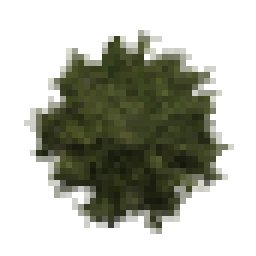
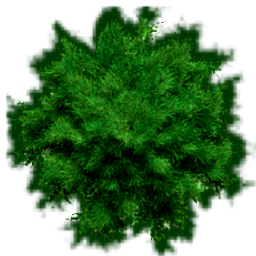
Zachary Chandler added bushes to front end

diff --git a/src/main/webapp/js/utility/Materials.js b/src/main/webapp/js/utility/Materials.js
@@ -11,3 +11,4 @@ addMaterial("stone");
 addMaterial("water");
 addMaterial("missing_texture");
 addMaterial("human");
+addMaterial("bush");

diff --git a/src/main/java/org/ex/yggdrasil/model/entities/Entity.java b/src/main/java/org/ex/yggdrasil/model/entities/Entity.java
@@ -6,6 +6,7 @@ import java.util.Objects;
 import org.ex.yggdrasil.model.Identifiable;
 import org.ex.yggdrasil.model.updates.UpdateProcessor;
 import org.ex.yggdrasil.model.world.chunks.Chunk;
+import org.ex.yggdrasil.model.world.chunks.Direction3D;
 
 /**
  * An entity that exists in the world... Has a position, chunk location, etc...
@@ -21,21 +22,25 @@ public abstract class Entity extends Identifiable implements Serializable {
 	private Chunk chunk;
 	private int x, y;
 	private EntityMaterial material;
+	private Direction3D facing;
 	
 	public Entity(Chunk c) {
-		this(null, c, EntityMaterial.MISSING_TEXTURE);
+		this(null, c, EntityMaterial.MISSING_TEXTURE, 0, 0);
 	}
 
-	public Entity(Chunk c, EntityMaterial material) {
-		this(null, c, material);
+	public Entity(Chunk c, EntityMaterial material, int x, int y) {
+		this(null, c, material, x, y);
 	}
 	
-	public Entity(Long id, Chunk c, EntityMaterial material) {
+	public Entity(Long id, Chunk c, EntityMaterial material, int x, int y) {
 		super(id);
 		Objects.requireNonNull(c);
 		this.position = new EntityPosition();
 		this.chunk = c;
 		this.material = material;
+		this.x = x;
+		this.y = y;
+		this.facing = Direction3D.N;
 	}
 
 	public EntityMaterial getMaterial() {
@@ -120,4 +125,15 @@ public abstract class Entity extends Identifiable implements Serializable {
 	}
 	
 	public abstract String[] getActions(); 
+
+
+	public Direction3D getFacing() {
+		return facing;
+	}
+
+	public void setFacing(Direction3D facing) {
+		Objects.requireNonNull(facing);
+		this.facing = facing;
+		UpdateProcessor.update(this);
+	}
 }

diff --git a/src/main/java/org/ex/yggdrasil/model/world/generation/RandomResourceDistributionWorldGenerator.java b/src/main/java/org/ex/yggdrasil/model/world/generation/RandomResourceDistributionWorldGenerator.java
@@ -1,0 +1,47 @@
+package org.ex.yggdrasil.model.world.generation;
+
+import java.util.Random;
+
+import org.ex.yggdrasil.model.entities.Entity;
+import org.ex.yggdrasil.model.entities.resources.ResourceNode;
+import org.ex.yggdrasil.model.entities.resources.ResourceNodeType;
+import org.ex.yggdrasil.model.world.chunks.Biome;
+import org.ex.yggdrasil.model.world.chunks.Chunk;
+import org.ex.yggdrasil.model.world.chunks.Direction3D;
+
+public class RandomResourceDistributionWorldGenerator extends SingleBiomeWorldGenerator {
+
+	private static final Random R = new Random();
+	
+	private ResourceNodeType resourceType;
+	private float density;
+
+	public RandomResourceDistributionWorldGenerator(Biome b, ResourceNodeType type) {
+		super(b);
+		this.resourceType = type;
+		this.density = (float) (1.0/16.0);
+	}
+
+	@Override
+	public void populate(Chunk c) {
+		
+		int tiles = c.getXSize() * c.getYSize();
+		int toPlace = (int) (density * tiles);
+		
+		int sizeX = c.getXSize();
+		int sizeY = c.getYSize();
+		
+		Direction3D[] directions = Direction3D.values(); 
+		
+		for (int i = 0; i < toPlace; i++) {
+			int x = Math.min((int) (R.nextFloat() * sizeX), sizeX - 1);
+			int y = Math.min((int) (R.nextFloat() * sizeY), sizeY - 1);
+			
+			if (!c.isWall(x, y) && x != 0 && y != 0) {
+				Entity e = c.add(new ResourceNode(this.resourceType, c, x, y));
+				e.setFacing(directions[R.nextInt(directions.length)]);
+				c.setWall(true, x, y);
+			}
+		}
+	}
+}

diff --git a/src/main/java/org/ex/yggdrasil/server/serialization/Serializer.java b/src/main/java/org/ex/yggdrasil/server/serialization/Serializer.java
@@ -3,6 +3,7 @@ package org.ex.yggdrasil.server.serialization;
 import org.ex.yggdrasil.model.Material;
 import org.ex.yggdrasil.model.entities.Entity;
 import org.ex.yggdrasil.model.entities.players.Player;
+import org.ex.yggdrasil.model.entities.resources.ResourceNode;
 import org.ex.yggdrasil.model.updates.BiomeUpdate;
 import org.ex.yggdrasil.model.updates.NetworkUpdate;
 import org.ex.yggdrasil.model.world.chunks.Chunk;
@@ -13,6 +14,7 @@ import org.ex.yggdrasil.server.serialization.adapters.ChunkTypeAdapter;
 import org.ex.yggdrasil.server.serialization.adapters.ContinuousEventTypeAdapter;
 import org.ex.yggdrasil.server.serialization.adapters.Coordinate3DTypeAdapter;
 import org.ex.yggdrasil.server.serialization.adapters.EntityPositionTypeAdapter;
+import org.ex.yggdrasil.server.serialization.adapters.EntityTypeAdapter;
 import org.ex.yggdrasil.server.serialization.adapters.MaterialTypeAdapter;
 import org.ex.yggdrasil.server.serialization.adapters.NetworkUpdateTypeAdapter;
 import org.ex.yggdrasil.server.serialization.adapters.PlayerTypeAdapter;
@@ -32,6 +34,7 @@ public class Serializer {
 			.registerTypeAdapter(Chunk.class, new ChunkTypeAdapter())
 			.registerTypeAdapter(Material.class, new MaterialTypeAdapter())
 			.registerTypeAdapter(BiomeUpdate.class, new BiomeUpdateTypeAdapter())
+			.registerTypeAdapter(ResourceNode.class, new EntityTypeAdapter())
 			.create();
 	
 	public static String prepare(NetworkUpdate n) {

diff --git a/src/main/java/org/ex/yggdrasil/model/entities/players/Player.java b/src/main/java/org/ex/yggdrasil/model/entities/players/Player.java
@@ -11,7 +11,6 @@ import org.ex.yggdrasil.model.updates.NetworkUpdate;
 import org.ex.yggdrasil.model.updates.UpdateProcessor;
 import org.ex.yggdrasil.model.world.World;
 import org.ex.yggdrasil.model.world.chunks.Chunk;
-import org.ex.yggdrasil.model.world.chunks.Direction3D;
 import org.ex.yggdrasil.model.world.time.ContinuousEvent;
 import org.slf4j.Logger;
 import org.slf4j.LoggerFactory;
@@ -28,7 +27,6 @@ public class Player extends Entity implements Serializable {
 	public final String userName;
 	private long experience;
 	transient boolean loggedIn;
-	private Direction3D facing;
 	private transient ContinuousEvent action;
 
 	public final Queue<String> messages;
@@ -45,7 +43,6 @@ public class Player extends Entity implements Serializable {
 		
 		this.userName = userName;
 		this.updates = new NetworkUpdate();
-		this.facing = Direction3D.N;
 		specialization = new ClassLevels();
 		experience = 0;
 		action = null;
@@ -127,16 +124,6 @@ public class Player extends Entity implements Serializable {
 
 	public ContinuousEvent getAction() {
 		return this.action;
-	}
-
-	public Direction3D getFacing() {
-		return facing;
-	}
-
-	public void setFacing(Direction3D facing) {
-		Objects.requireNonNull(facing);
-		this.facing = facing;
-		UpdateProcessor.update(this);
 	}
 	
 	@Override

diff --git a/src/main/java/org/ex/yggdrasil/model/entities/resources/ResourceNodeType.java b/src/main/java/org/ex/yggdrasil/model/entities/resources/ResourceNodeType.java
@@ -5,13 +5,14 @@ import org.ex.yggdrasil.model.entities.items.Item;
 
 public enum ResourceNodeType {
 
-	BUSH(Item.STICK, EntityMaterial.BUSH, EntityMaterial.BUSH, 15000, 15000);
+	BUSH(Item.STICK, EntityMaterial.BUSH, EntityMaterial.BUSH, 15000, 15000, new String[0]);
 	
 	public final EntityMaterial activeMaterial;
 	public final EntityMaterial depletedMaterial;
 	public final Item item;
 	public final int respawn_time;
 	public final int respawn_variance;
+	public final String[] actions;
 
 	/**
 	 * Defines a resource node type.
@@ -21,12 +22,13 @@ public enum ResourceNodeType {
 	 * @param respawn_time the minimum time it takes for this resource type to re-spawn
 	 * @param respawn_variance the uniform distribution spread for re-spawn times of this node
 	 */
-	ResourceNodeType(Item item, EntityMaterial active, EntityMaterial depleted, int respawn_time, int respawn_variance) {
+	ResourceNodeType(Item item, EntityMaterial active, EntityMaterial depleted, int respawn_time, int respawn_variance, String[] actions) {
 		this.item = item;
 		this.activeMaterial = active;
 		this.depletedMaterial = depleted;
 		this.respawn_time = respawn_time;
 		this.respawn_variance = respawn_variance;
+		this.actions = actions;
 	}
 	
 }

diff --git a/src/main/java/org/ex/yggdrasil/model/entities/resources/ResourceNode.java b/src/main/java/org/ex/yggdrasil/model/entities/resources/ResourceNode.java
@@ -9,7 +9,7 @@ import org.ex.yggdrasil.model.updates.UpdateProcessor;
 import org.ex.yggdrasil.model.world.World;
 import org.ex.yggdrasil.model.world.chunks.Chunk;
 
-public abstract class ResourceNode extends Entity {
+public class ResourceNode extends Entity {
 
 	private static final Random R = new Random();
 
@@ -18,11 +18,10 @@ public abstract class ResourceNode extends Entity {
 	private final Runnable reset;
 	private boolean depleted;
 
-	public ResourceNode(Chunk c, ResourceNodeType type) {
-		super(c);
-		this.setMaterial(type.activeMaterial);
-		this.depleted = false;
+	public ResourceNode(ResourceNodeType type, Chunk c, int x, int y) {
+		super(c, type.activeMaterial, x, y);
 		this.type = type;
+		this.depleted = false;
 		this.reset = new Reset();
 	}
 
@@ -63,5 +62,10 @@ public abstract class ResourceNode extends Entity {
 			ResourceNode.this.setMaterial(ResourceNode.this.type.activeMaterial);
 			UpdateProcessor.update(ResourceNode.this);
 		}
+	}
+
+	@Override
+	public String[] getActions() {
+		return this.type.actions;
 	}
 }

diff --git a/src/main/java/org/ex/yggdrasil/server/Server.java b/src/main/java/org/ex/yggdrasil/server/Server.java
@@ -2,10 +2,11 @@ package org.ex.yggdrasil.server;
 
 import java.io.FileNotFoundException;
 
+import org.ex.yggdrasil.model.entities.resources.ResourceNodeType;
 import org.ex.yggdrasil.model.world.Persistence;
 import org.ex.yggdrasil.model.world.World;
 import org.ex.yggdrasil.model.world.chunks.Biome;
-import org.ex.yggdrasil.model.world.generation.SingleBiomeWorldGenerator;
+import org.ex.yggdrasil.model.world.generation.RandomResourceDistributionWorldGenerator;
 import org.ex.yggdrasil.parser.Commands;
 import org.slf4j.Logger;
 import org.slf4j.LoggerFactory;
@@ -24,7 +25,7 @@ public abstract class Server {
 		} catch (FileNotFoundException e) {
 			LOG.error("Failed to load world, could not read save file.");
 			LOG.info("Generating terrain");
-			new SingleBiomeWorldGenerator(Biome.GRASS).generate(World.get().getRoot());
+			new RandomResourceDistributionWorldGenerator(Biome.GRASS, ResourceNodeType.BUSH).generate(World.get().getRoot());
 		}
 		
 		loadCommands();

diff --git a/src/main/java/org/ex/yggdrasil/server/serialization/adapters/AbstractEntityTypeAdapter.java b/src/main/java/org/ex/yggdrasil/server/serialization/adapters/AbstractEntityTypeAdapter.java
@@ -10,12 +10,13 @@ import com.google.gson.JsonSerializationContext;
 
 public abstract class AbstractEntityTypeAdapter {
 
-	public JsonObject serialize(Entity src, Type typeOfSrc, JsonSerializationContext context) {
+	public JsonObject serializeEntity(Entity src, Type typeOfSrc, JsonSerializationContext context) {
 		JsonObject root = new JsonObject();
 
 		root.add("position", context.serialize(src.getPosition()));
 		root.add("id", new JsonPrimitive(src.getId()));
 		root.add("material", new JsonPrimitive(src.getMaterial().toString()));
+		root.add("facing", new JsonPrimitive(src.getFacing().name()));
 		
 		return root;
 	}

diff --git a/src/main/java/org/ex/yggdrasil/server/serialization/adapters/EntityTypeAdapter.java b/src/main/java/org/ex/yggdrasil/server/serialization/adapters/EntityTypeAdapter.java
@@ -1,0 +1,17 @@
+package org.ex.yggdrasil.server.serialization.adapters;
+
+import java.lang.reflect.Type;
+
+import org.ex.yggdrasil.model.entities.Entity;
+
+import com.google.gson.JsonElement;
+import com.google.gson.JsonSerializationContext;
+import com.google.gson.JsonSerializer;
+
+public class EntityTypeAdapter extends AbstractEntityTypeAdapter implements JsonSerializer<Entity> {
+
+	@Override
+	public JsonElement serialize(Entity src, Type typeOfSrc, JsonSerializationContext context) {
+		return super.serializeEntity(src, typeOfSrc, context);
+	}
+}

diff --git a/src/main/java/org/ex/yggdrasil/model/world/chunks/Chunk.java b/src/main/java/org/ex/yggdrasil/model/world/chunks/Chunk.java
@@ -71,7 +71,7 @@ public class Chunk extends Identifiable implements Serializable {
 		return x >= 0 && x < xSize && y >= 0 && y < ySize;
 	}
 
-	public synchronized void add(Entity e) {
+	public synchronized Entity add(Entity e) {
 		if (e.getChunk() != null && e.getChunk() != this) {
 			throw new IllegalArgumentException("Entity is already in another chunk");
 		}
@@ -81,6 +81,8 @@ public class Chunk extends Identifiable implements Serializable {
 		} else {
 			contents.add(e);
 		}
+		
+		return e;
 	}
 
 	public void remove(Entity e) {

diff --git a/src/main/java/org/ex/yggdrasil/model/world/generation/SingleBiomeWorldGenerator.java b/src/main/java/org/ex/yggdrasil/model/world/generation/SingleBiomeWorldGenerator.java
@@ -1,6 +1,7 @@
 package org.ex.yggdrasil.model.world.generation;
 
 import org.ex.yggdrasil.model.world.chunks.Biome;
+import org.ex.yggdrasil.model.world.chunks.Chunk;
 
 public class SingleBiomeWorldGenerator extends AbstractWorldGenerator {
 
@@ -13,5 +14,10 @@ public class SingleBiomeWorldGenerator extends AbstractWorldGenerator {
 	@Override
 	public Biome getBiome(int i, int j) {
 		return b;
+	}
+
+	@Override
+	public void populate(Chunk c) {
+		// do nothing
 	}
 }
